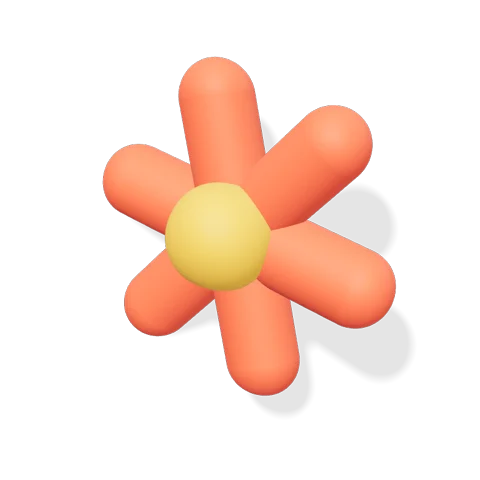
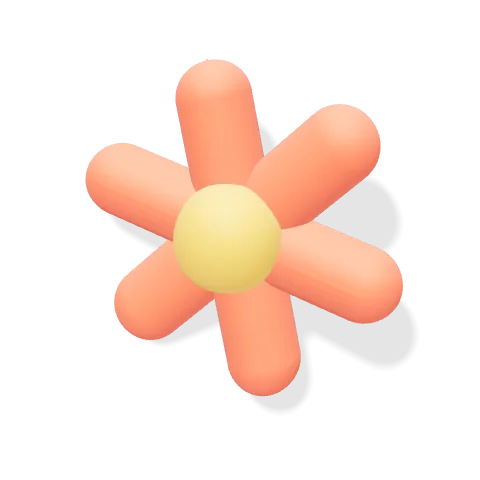
Rebrand R4b review 1: hero and /start tuned to the board; stills re-lit
From a separate review against the test board: phone asterisk half
behind the card, cap behind the tab bar, desktop ball tucked behind the
tabs, thinner frost on the hero chips, clay grows up to 30% on wide heroes.
/start: tighter clay row, horizontal clip only on phones. All clay stills
(site and app) re-rendered with the board's light at the same framing.

Changed region(s): [[0.1562, 0.0938, 0.8438, 0.8438], [0.7188, 0.75, 0.8125, 0.7812], [0.6875, 0.7188, 0.7188, 0.75]]

diff --git a/src/components/ClayRow.tsx b/src/components/ClayRow.tsx
@@ -8,13 +8,13 @@ type Kind = "asterisk" | "bubble" | "cap" | "books" | "pencil" | "ring";
 // Sizes and spots follow the clay-3d test board's app screen: a large
 // asterisk and a bubble above the heading.
 const SPOTS: { kind: Kind; className: string }[] = [
-  { kind: "bubble", className: "-left-1 top-10 w-28" },
-  { kind: "asterisk", className: "-right-4 -top-10 w-52 [animation-delay:-2s]" },
+  { kind: "bubble", className: "-left-1 top-5 w-24" },
+  { kind: "asterisk", className: "-right-2 -top-2 w-40 [animation-delay:-2s]" },
 ];
 
 export function ClayRow({ items = SPOTS }: { items?: { kind: Kind; className: string }[] }) {
   return (
-    <div aria-hidden className="pointer-events-none relative mb-2 h-36 select-none">
+    <div aria-hidden className="pointer-events-none relative mb-1 h-24 select-none">
       {items.map(({ kind, className }) => (
         <Image
           key={kind}

diff --git a/site/src/scripts/clay-scene.ts b/site/src/scripts/clay-scene.ts
@@ -276,7 +276,9 @@ export function mountClay(el: HTMLElement, layout: Placement[]): void {
     const vh = 2 * Math.tan(THREE.MathUtils.degToRad(camera.fov / 2)) * camera.position.z;
     const vw = vh * camera.aspect;
     const narrow = w < 560;
-    const unit = Math.min(vw, vh);
+    // On wide boxes (desktop hero) the objects grow with the width, up to
+    // 30%, so they fill the right-hand side the way they do on the board.
+    const unit = Math.min(vw, vh) * Math.min(1.3, Math.max(1, camera.aspect / 1.6));
     for (const it of items) {
       const p = it.place;
       const pos = narrow && p.m !== undefined ? p.m : p;

diff --git a/src/app/start/ForkScreen.tsx b/src/app/start/ForkScreen.tsx
@@ -97,7 +97,7 @@ function ForkScreen() {
   };
 
   return (
-    <main className="relative isolate mx-auto flex overflow-x-clip w-full max-w-lg flex-1 flex-col px-6 pt-6 pb-24">
+    <main className="relative isolate mx-auto flex overflow-x-clip md:overflow-x-visible w-full max-w-lg flex-1 flex-col px-6 pt-2 pb-24">
       <ClayRow />
       <h1 className="mb-2 text-3xl font-extrabold leading-snug tracking-tight">
         어떤 상황에서 AI를

diff --git a/docs/brand/r4b-plan.md b/docs/brand/r4b-plan.md
@@ -57,3 +57,12 @@ facts, brand-direction picks or a production go.
   ring and books peeking from behind the 곧 열려요 doors (doors stay solid buttons). Clipped on
   `main` (body clip did not stop the mobile viewport widening to 399px). tsc, eslint, next build OK.
 - Item 6: router-card and final-CTA clay checked against the board; R3 as is, no change.
+- Item 7: site 19/19 scripted checks, slow-4G CLS ≤ 0.0002, axe 0 on 7 pages; app /start axe 0, CLS 0.003.
+- Item 8, review 1 (separate reviewer) → fixes: phone asterisk lower so half sits behind the card;
+  cap tucked behind the tab bar's end; ball behind the tab bar on desktop; hero chips thinner frost
+  (white 50%) so the cap shows through; clay scales up to 30% on wide heroes (1280 filled like the
+  board); app /start clay row tighter (heading at ~28% of a 667 phone, board ~22%), clip only below
+  768px (books were cut at the main edge on desktop); app background "seam" was a full-page
+  screenshot artefact of `background-attachment: fixed` (none when scrolling); stills re-rendered
+  with the fixed light, same framing (pencil given room at the top, large asterisk pose matched),
+  7 files in site + app, 40% smaller. Item 4 done; old stills kept in the preview for Eric.
